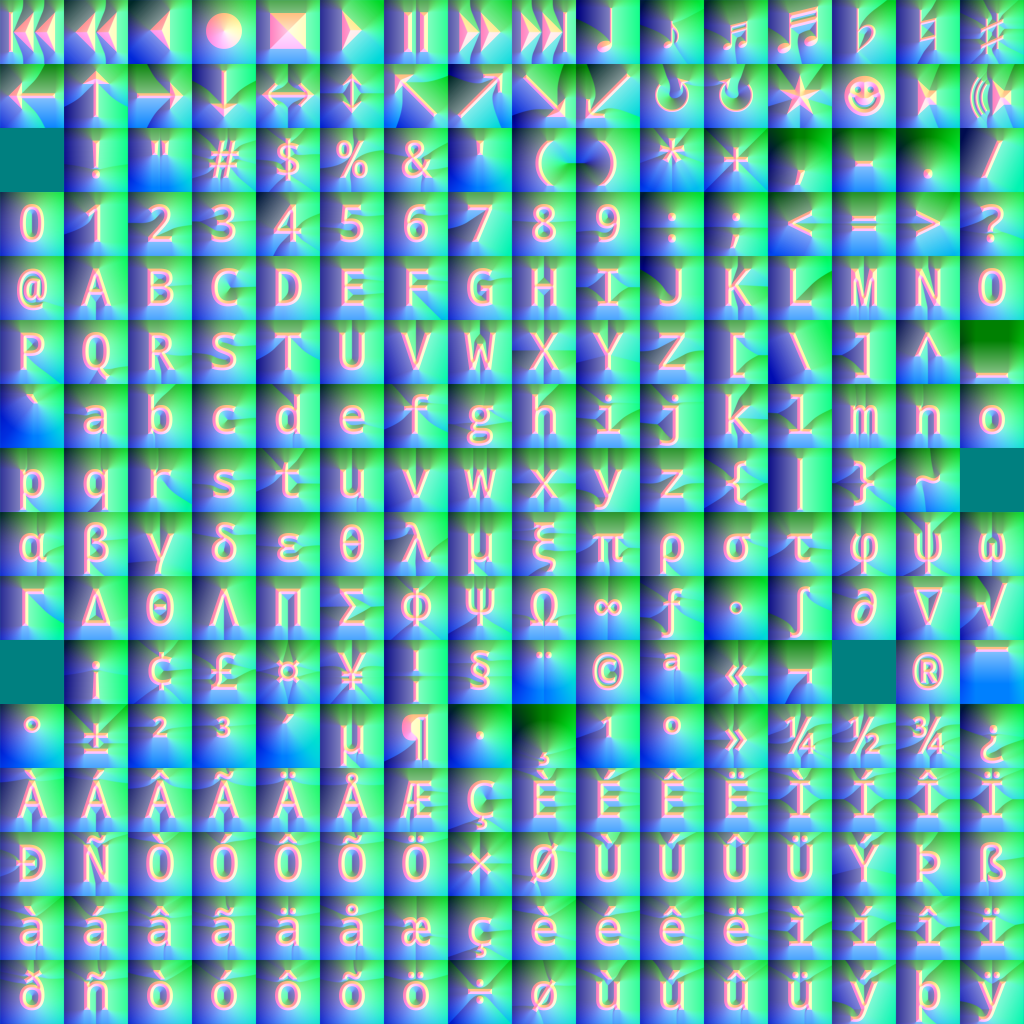
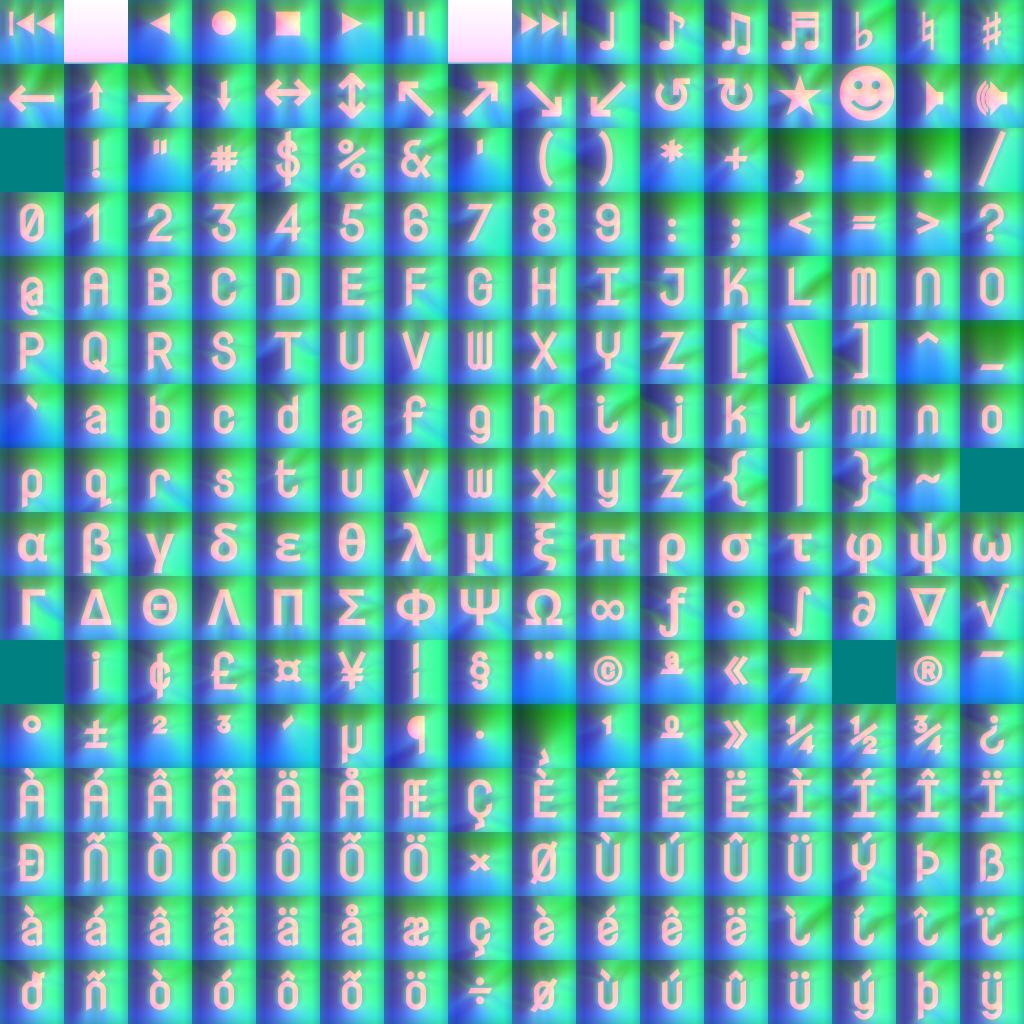
change built-in font

diff --git a/unreleased_changes.md b/unreleased_changes.md
@@ -30,11 +30,13 @@ C:\Source\monkey-hi-hat\mhh\mhh\bin\x64\Debug\net10.0
 * Optional bottom-row banners (config `ShowTextBanners=false`, and `[text-banners]` section)
 * Fixed text double-blank-line bug with newline in right-most column
 * Honor custom font texture in `FontAtlasFilename` (update docs with info about generating new ones)
-  * Sample custom font texture `Font Kode Mono 1024x1024.png`, use `OutlineWeight=0.62`
+  * Changed the built-in font to Nova Mono (Shadertoy font is in textures directory) 
+  * Sample custom font textures:
+    * `Font Kode Mono 1024x1024.png`, uses `OutlineWeight=0.62`
+    * `Font Nova Mono 1024x1024.png`, uses `OutlineWeight=0.62`
   * The original Shadertoy font generator is [here](https://evanw.github.io/font-texture-generator/)
-  * Generate custom fonts [here](https://timmaffett.github.io/shadertoy_fontgen/generate_sdf.html)
-  * Typically you should stick to monospaced fonts
-  * Use a custom texture directory (remember updating MHH _replaces_ the `mhh-content` directories)
+  * Generate custom fonts with the improved fork [here](https://timmaffett.github.io/shadertoy_fontgen/generate_sdf.html)
+  * Use a custom texture directory (remember: updating MHH _replaces_ the `mhh-content` directories)
 * Command `--show grid` now reflects `TextBufferX` and `TextBufferY` dimensions
 * Implemented log limits: max ten 5MB files, retained 7 days, no longer wipes old logs at startup
 * Fixed bug where numeric keypad right-arrow and down-arrow were being ignored
